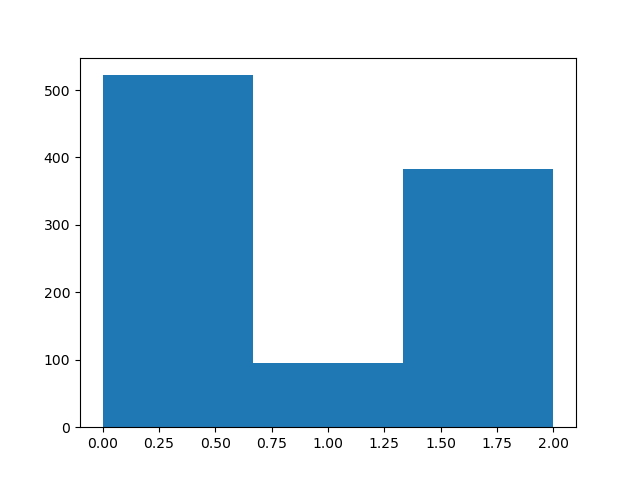
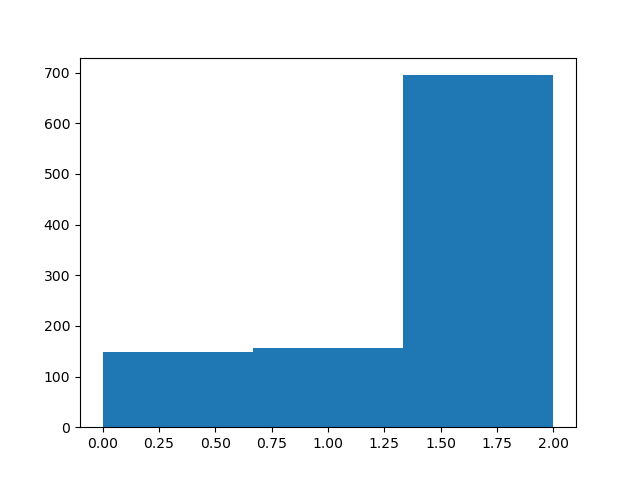
other changes (#2)

diff --git a/nonRLplayers/greedy_player.py b/nonRLplayers/greedy_player.py
@@ -12,7 +12,7 @@ class GreedyPlayer:
         self.id = id
 
 
-    def choose_route(self, game):
+    def choose_route(self, game, players):
         """
         Find all possible routes and chooses a route that makes the most progress. 
         Here, progress is defined as the decrease in the sum of distances
@@ -28,7 +28,7 @@ class GreedyPlayer:
         # print(route_progress)
         return available_routes[np.argmax(route_progress)]
 
-    def draw_or_claim(self, game):
+    def draw_or_claim(self, game, players):
         """
         If at least one route makes positive progress, claim a route (1). Otherwise, draw 2 cards (0)
         """

diff --git a/dual/cnn/cnn_utils.py b/dual/cnn/cnn_utils.py
@@ -92,7 +92,7 @@ def generate_state_matrix(game, players):
     v = len(game.graph)
     matrices.append(generate_multigraph_matrix(game.graph, 4)) # 28 * 7 * 7
     matrices.append(generate_multigraph_matrix(game.status, 2)) # 14  * 7 * 7
-    matrices.append(generate_deck_matrix(game.cards, game.card_index, v)) # 72 * 7 * 7
+    # matrices.append(generate_deck_matrix(game.cards, game.card_index, v)) # 72 * 7 * 7
     for player in players:
         matrices.append(generate_destination_cards_matrix(player.destination_cards, v)) # 2 * 7 * 7
         matrices.append(generate_train_cards_matrix(player.cards, 12, v)) # 24 * 7 * 7

diff --git a/nonRLplayers/random_player.py b/nonRLplayers/random_player.py
@@ -11,7 +11,7 @@ class RandomPlayer:
         self.id = id
 
 
-    def choose_route(self, game):
+    def choose_route(self, game, players):
         """
         Find all possible routes and randomly choose one to take
         """
@@ -19,7 +19,7 @@ class RandomPlayer:
         available_routes = get_available_routes(availability)
         return random.choice(available_routes)
 
-    def draw_or_claim(self, game):
+    def draw_or_claim(self, game, players):
         """
         Randomly decide whether to draw 2 more cards (0) or claim a route (1)
         """

diff --git a/nonRLplayers/frugal_player.py b/nonRLplayers/frugal_player.py
@@ -11,7 +11,7 @@ class FrugalPlayer:
         self.id = id
 
 
-    def choose_route(self, game):
+    def choose_route(self, game, players):
         """
         Find all possible routes and chooses a route that makes
         the most progress
@@ -27,7 +27,7 @@ class FrugalPlayer:
         return available_routes[np.argmax(route_progress)]
 
 
-    def draw_or_claim(self, game):
+    def draw_or_claim(self, game, players):
         """
         If there is at least one path that can be completed, claim a route (1).
         Otherwise, draw 2 cards (0)
